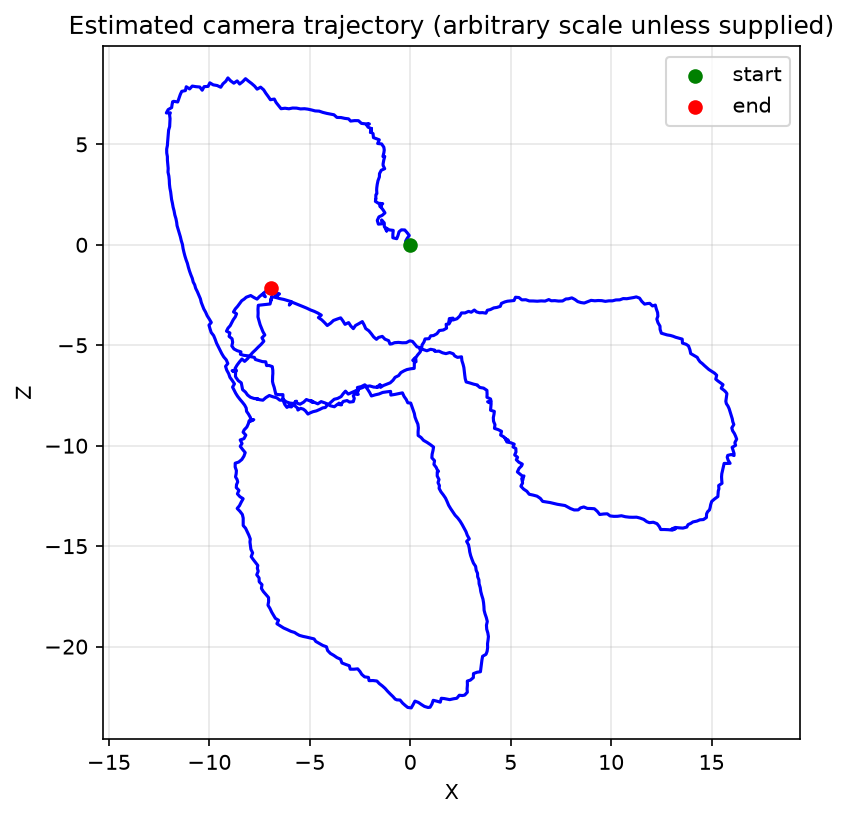
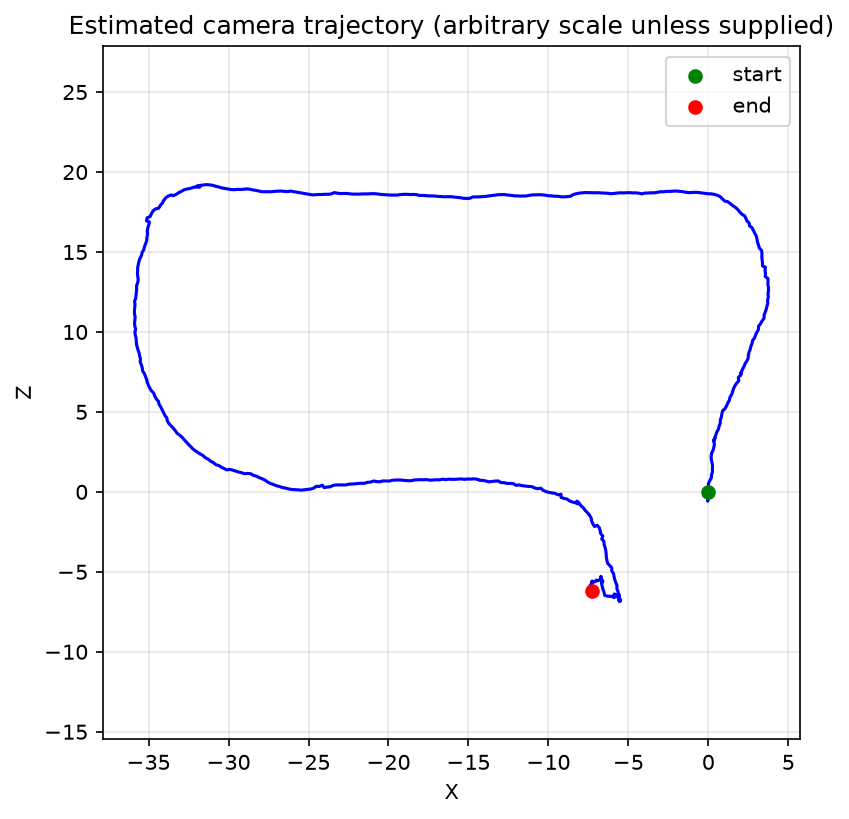
imu vo

diff --git a/orb-slam/imu_vo.py b/orb-slam/imu_vo.py
@@ -82,14 +82,25 @@ def IMU_READER(main_thread):
 
     print(f"Connecting to ESP32 on {COM_PORT}...")
     global is_connected_imu
+    global imu_data
     try:
         # Open the serial port connection
         ser = serial.Serial(COM_PORT, BAUD_RATE, timeout=1)
         time.sleep(2) # Allow connection to settle
         print("Connected successfully! Listening for data...")
+        # read data from serial port to buffer any data that is corrupt
+        for _ in range(10):
+            if ser.in_waiting > 0:
+                raw_data = ser.readline()
+                decoded_data = raw_data.decode('utf-8', errors='ignore').strip()
+                print(decoded_data)
+                split_data = decoded_data.split("/")
+
+                with imu_lock:
+                    imu_data = [float(split_data[0]), float(split_data[1]), float(split_data[2])]
+
         with is_connected_lock:
             is_connected_imu = True
-        global imu_data
         while True:
             if ser.in_waiting > 0:
                 # Read line, decode bytes to string, and strip extra whitespaces/newlines
@@ -116,6 +127,8 @@ def IMU_READER(main_thread):
 # --------------------------------------------------------------------------- #
 class MonocularVO:
     def __init__(self, K, n_features=3000, min_matches=8, ratio=0.75):
+        # consistently use the same CPU/GPU device.
+        self.device = torch.device('cuda' if torch.cuda.is_available() else 'cpu')
 
         self.K = K
         # ORB-SLAM3's own feature extractor (quad-tree keypoint distribution),
@@ -135,6 +148,7 @@ class MonocularVO:
         # Initialize the matcher with LSH parameters
         self.flann = cv2.FlannBasedMatcher(index_params, search_params)
         self.min_matches = min_matches
+        self.n_features = n_features
         self.ratio = ratio
 
         self.prev_gray = None
@@ -182,7 +196,70 @@ class MonocularVO:
             if m.distance < self.ratio * n.distance:
                 good.append(m)
         return good
+    def _keypoints_to_cv2(self, keypoints):
+        """Convert a Tensor/NumPy array of keypoints (N, 2) to a list of cv2.KeyPoint."""
+        if isinstance(keypoints, torch.Tensor):
+            keypoints = keypoints.cpu().numpy()
+        return [cv2.KeyPoint(x=float(pt[0]), y=float(pt[1]), size=1.0) for pt in keypoints]
 
+    def _detect_xFeat(self, frame, top_k=None):
+        if top_k is None:
+            top_k = self.n_features
+
+        # XFeat inference does not require gradients, so disable autograd
+        # to reduce memory usage and inference overhead.
+        with torch.inference_mode():
+            output = self.xfeat.detectAndCompute(frame, top_k=top_k)[0]
+
+        # Keep keypoints as raw NumPy coordinates internally. Conversion to
+        # cv2.KeyPoint objects is only needed later for visualization.
+        kpts = output['keypoints']
+        if isinstance(kpts, torch.Tensor):
+            kpts = kpts.cpu().numpy()
+        return kpts, output
+
+    def _match_xFeat(self, feats0, feats1):
+        # Return an empty index array if either descriptor set is unavailable.
+        if feats0 is None or feats1 is None:
+            return np.zeros((0, 2), dtype=np.int64)
+
+        # Only transfer descriptors when they are not already on the correct
+        # device, avoiding unnecessary CPU/GPU transfers.
+        if feats0.device != self.device:
+            feats0 = feats0.to(self.device)
+        if feats1.device != self.device:
+            feats1 = feats1.to(self.device)
+
+        # XFeat matching is inference-only, so gradients are unnecessary.
+        with torch.inference_mode():
+            match = self.xfeat.match(feats0, feats1)
+
+        if isinstance(match, (tuple, list)):
+            idx0, idx1 = match
+        else:
+            match = torch.as_tensor(match)
+
+            # Convert XFeat's possible match formats into two arrays of
+            # corresponding descriptor indices.
+            if match.ndim == 2 and match.shape[1] >= 2:
+                idx0, idx1 = match[:, 0], match[:, 1]
+            elif match.ndim == 1 and match.numel() % 2 == 0:
+                idx0, idx1 = match[0::2], match[1::2]
+            else:
+                return np.zeros((0, 2), dtype=np.int64)
+
+        if isinstance(idx0, torch.Tensor):
+            idx0 = idx0.cpu().numpy()
+            idx1 = idx1.cpu().numpy()
+        idx0 = np.asarray(idx0, dtype=np.int64)
+        idx1 = np.asarray(idx1, dtype=np.int64)
+        if idx0.size == 0:
+            return np.zeros((0, 2), dtype=np.int64)
+
+        # Store matches as raw (N, 2) descriptor-index pairs instead of
+        # constructing cv2.DMatch objects.
+        return np.stack([idx0, idx1], axis=1)
+    
     def process_frame(self, frame, scale=1.0):
         """
         Processes one frame, updates the accumulated pose, and returns
@@ -280,7 +357,7 @@ def save_matplotlib_plot(trajectory, out_path="trajectory.png"):
 # Main
 # --------------------------------------------------------------------------- #
 TRAJECTORY = None
-CALIBRATION_PATH = "cameraCalibrationData/calibrationMetrics/kenshi.txt"
+CALIBRATION_PATH = "cameraCalibrationData/calibrationMetrics/ethan.txt"
 CALIBRATION_VALS = []
 with open(CALIBRATION_PATH, "r") as file:
     for line in file:
@@ -291,13 +368,13 @@ with open(CALIBRATION_PATH, "r") as file:
 print(CALIBRATION_VALS)
 
 parser = argparse.ArgumentParser(description="Monocular Visual Odometry (ORB + Essential matrix)")
-parser.add_argument("--source", default="vo_videos/vid2.mp4",
+parser.add_argument("--source", default="1",
                         help="Webcam index (e.g. 0), path to a video file, or path to a folder of image frames")
 parser.add_argument("--fx", type=float, default=CALIBRATION_VALS[0]/2.0, help="Focal length x (pixels)")
 parser.add_argument("--fy", type=float, default=CALIBRATION_VALS[1]/2.0, help="Focal length y (pixels)")
 parser.add_argument("--cx", type=float, default=CALIBRATION_VALS[2]/2.0, help="Principal point x")
 parser.add_argument("--cy", type=float, default=CALIBRATION_VALS[3]/2.0, help="Principal point y")
-parser.add_argument("--scale", type=float, default=1.0,
+parser.add_argument("--scale", type=float, default=0.2,
                         help="Per-frame translation scale factor. Monocular VO has no absolute "
                             "scale; supply this from external info (e.g. constant speed * dt) "
                             "or leave at 1.0 for a scale-free trajectory shape.")
